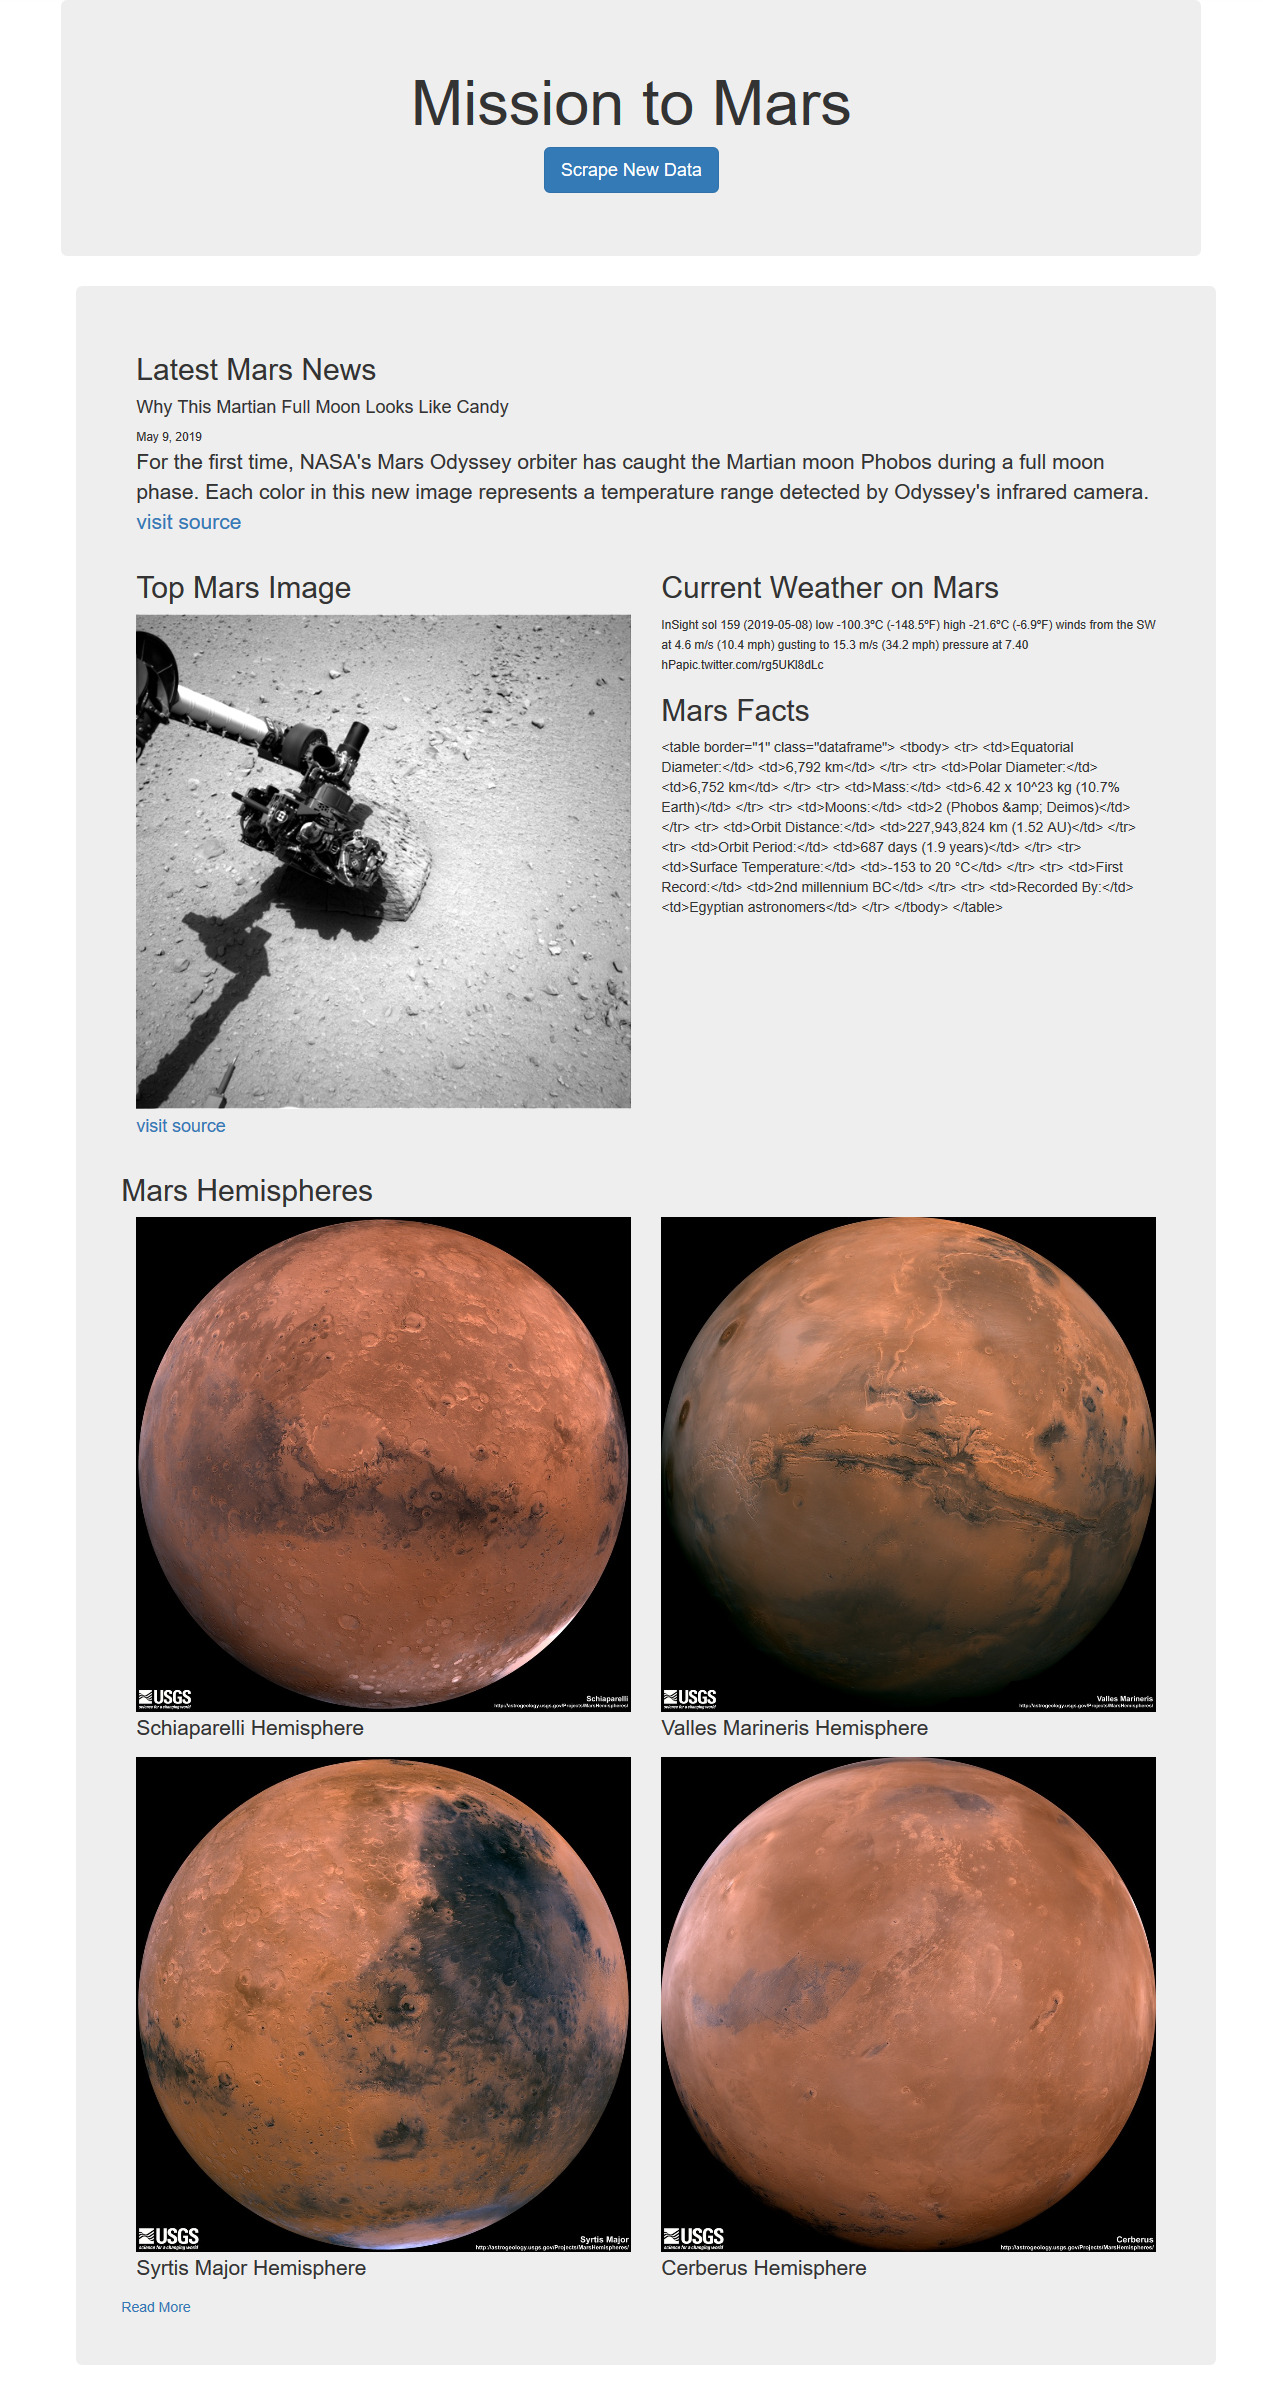
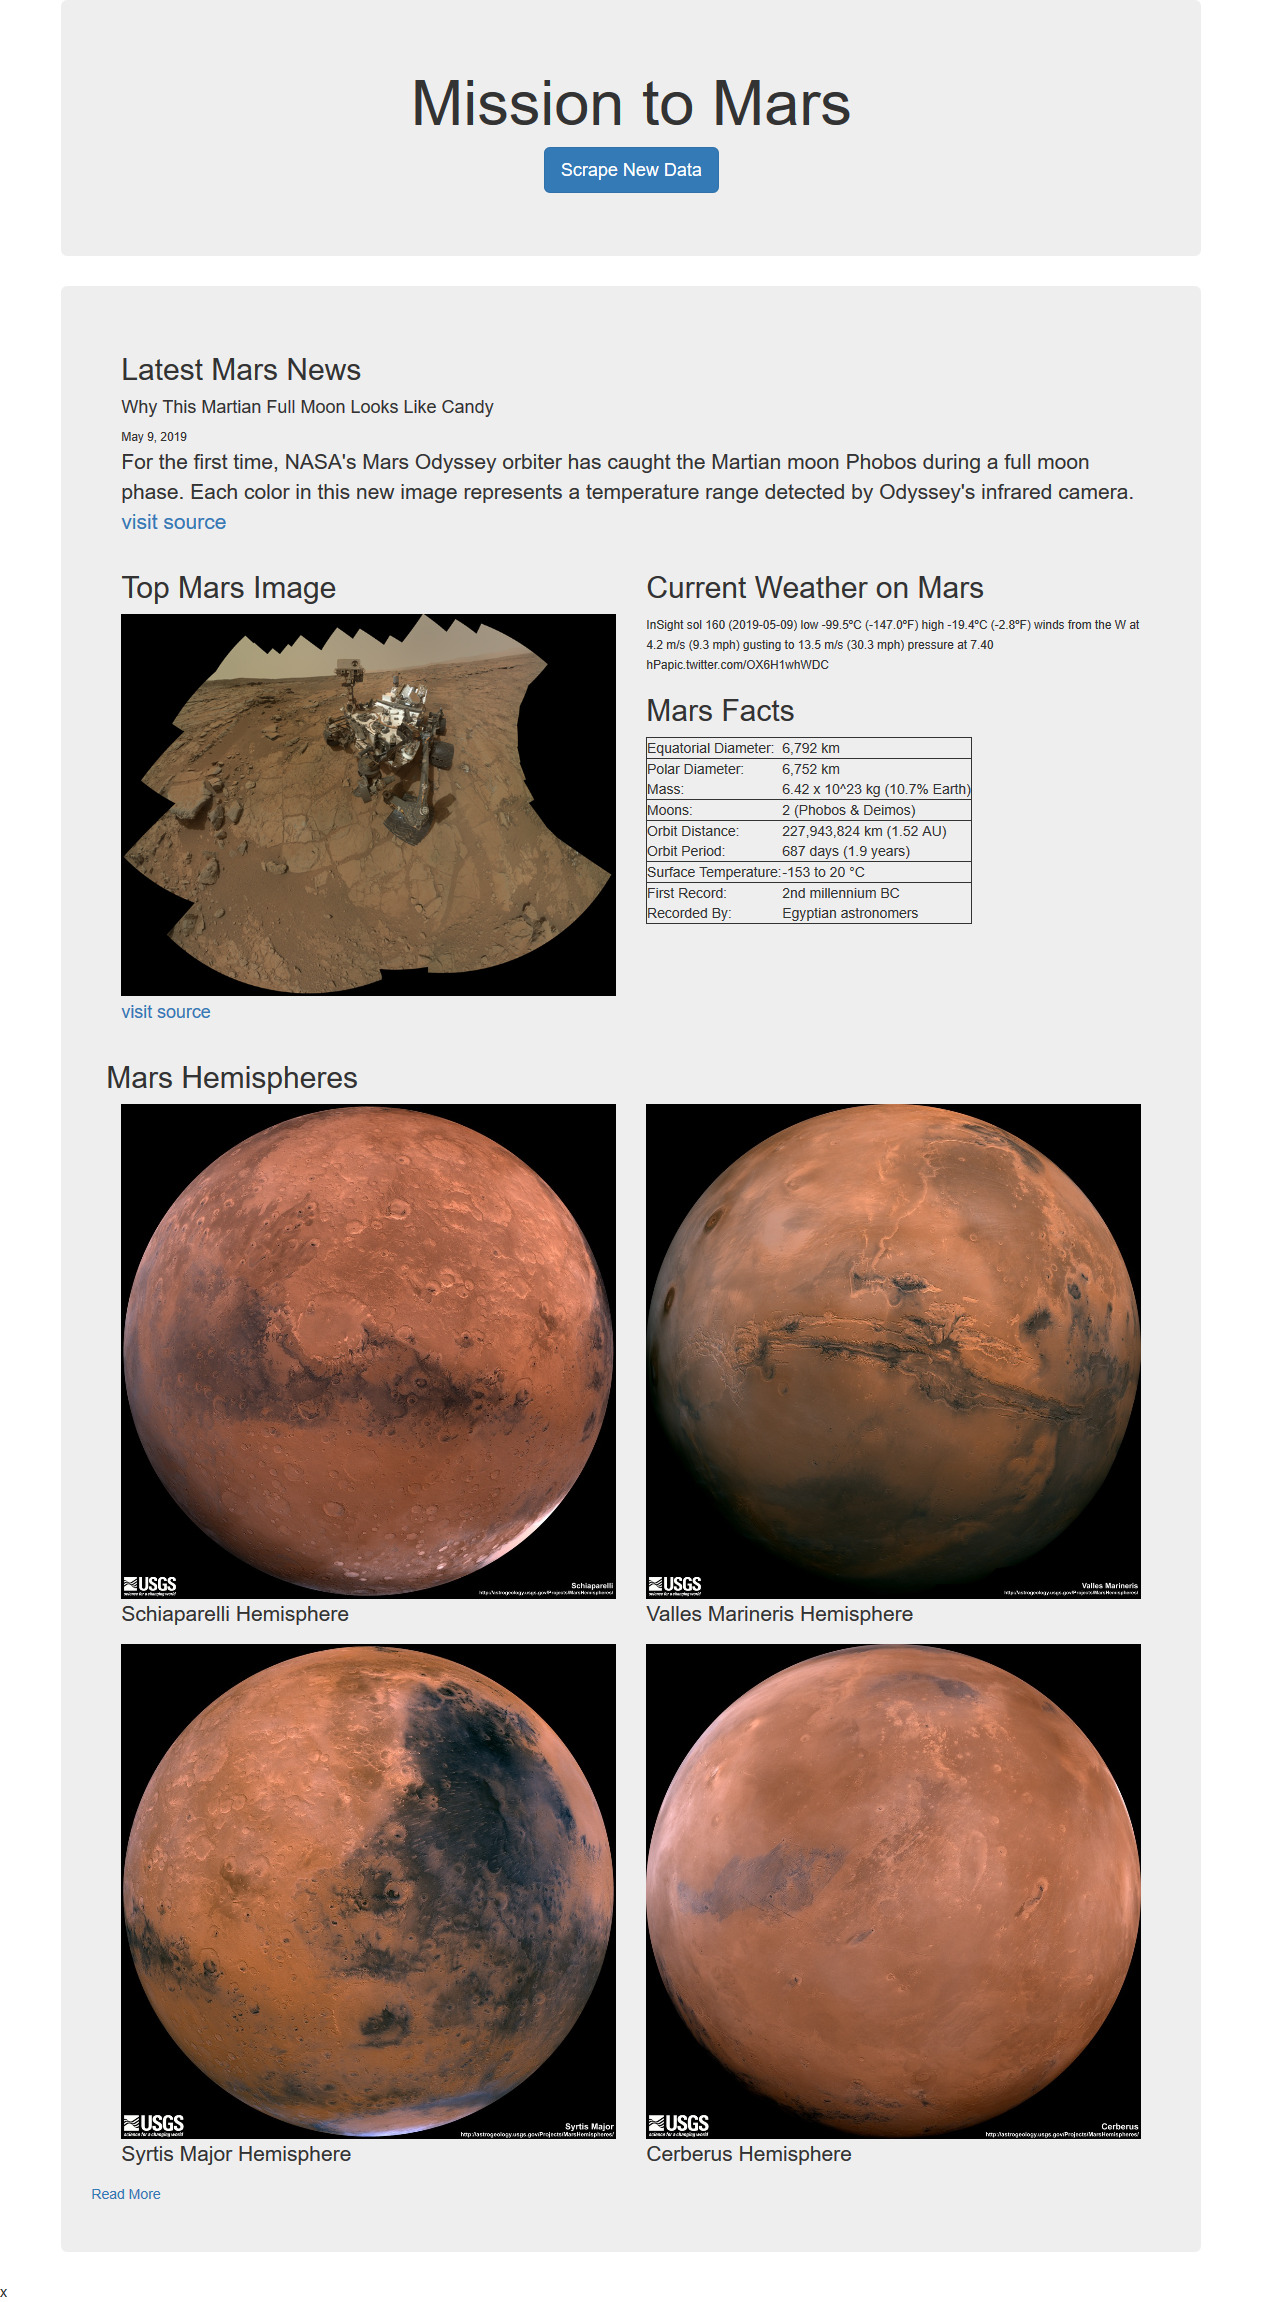
update

diff --git a/templates/index.html b/templates/index.html
@@ -1,13 +1,13 @@
 <!DOCTYPE html>
 <html lang="en">
-
-<head>
-  <meta charset="UTF-8">
-  <meta name="viewport" content="width=device-width, initial-scale=1.0">
-  <meta http-equiv="X-UA-Compatible" content="ie=edge">
-  <title>Mars Scrape</title>
-  <link rel="stylesheet" href="https://maxcdn.bootstrapcdn.com/bootstrap/3.3.7/css/bootstrap.min.css">
-</head>
+    <head>
+        <meta charset="UTF-8">
+        <meta name="viewport" content="width=device-width, initial-scale=1.0">
+        <meta http-equiv="X-UA-Compatible" content="ie=edge">
+        <title>Mars Scrape</title>
+        <link rel="stylesheet" href="https://maxcdn.bootstrapcdn.com/bootstrap/3.3.7/css/bootstrap.min.css" >
+      </head>
+      
 
 <body>
   <div class="container">
@@ -16,70 +16,83 @@
       <h1>Mission to Mars</h1>
       <p><a class="btn btn-primary btn-lg" href="/scrape" role="button">Scrape New Data</a></p>
     </div>
+  </div>
+  <!-- Mars Listings -->
+  <div class="container">
 
-    <!-- Mars Listings -->
-    <div class="container">
-
-      <div class="jumbotron text-left">
-        <div class="row" id="mars_news">
-          <div class="col-md-12">
-            <h2 class="heading">Latest Mars News</h2>
-            <h4>{{scrape_dict.mars_news.news_title}}</h4>
-            <small>{{scrape_dict.mars_news.news_date}}</small>
-            <p>{{scrape_dict.mars_news.news_p}}<a href="https://mars.nasa.gov/news " target="__blank"> visit source</a>
-            </p>
-          </div>
+    <div class="jumbotron text-left">
+      <div class="row" id="mars_news">
+        <div class="col-md-12">
+          {% if scrape_dict is not none %}
+          <h2 class="heading">Latest Mars News</h2>
+          <h4>{{scrape_dict.mars_news.news_title}}</h4>
+          <small>{{scrape_dict.mars_news.news_date}}</small>
+          <p>{{scrape_dict.mars_news.news_p}}<a href="https://mars.nasa.gov/news " target="__blank"> visit source</a>
+            {% endif %}
+          </p>
         </div>
+      </div>
 
-        <div class="row">
-          <div class="col-md-6">
-            <h2>Top Mars Image</h2>
-            <img src="{{scrape_dict.top_img_url}}" alt="top mars image" class="img-responsive">
-            <p>
-              <small>
-                <a href="https://www.jpl.nasa.gov/spaceimages/?search=&category=Mars" target="__blank">visit source</a>
-              </small>
-            </p>
-          </div>
-          <div class="col-md-6">
-            <h2>Current Weather on Mars</h2>
-            <small>{{scrape_dict.mars_weather}}</small>
-            <h2>Mars Facts</h2>
-            {{scrape_dict.html_table}}
-          </div>
+      <div class="row">
+        <div class="col-md-6">
+          <h2>Top Mars Image</h2>
+          <img src="{{scrape_dict.top_img_url}}" alt="top mars image" class="img-responsive">
+          <p>
+            <small>
+              <a href="https://www.jpl.nasa.gov/spaceimages/?search=&category=Mars" target="__blank">visit source</a>
+            </small>
+          </p>
+        </div>
+        <div class="col-md-6">
+          <h2>Current Weather on Mars</h2>
+          <small>{{scrape_dict.mars_weather}}</small>
+          <h2>Mars Facts</h2>
+          {{scrape_dict.html_table | safe}}
+        </div>
+      </div>
+      <div class="row">
+        <div class=col-12 class="text-center">
+          <h2>Mars Hemispheres</h2>
+        </div>
+      </div>
+      <div class="row">
+        <div class="col-md-6">
 
+          <img src="{{scrape_dict.hemisphere_image_urls[1]['img_url']}}" alt="" class="img-responsive">
+          <P>{{scrape_dict.hemisphere_image_urls[1]['title']}}</P>
+
+
+          <img src="{{scrape_dict.hemisphere_image_urls[2]['img_url']}}" alt="" class="img-responsive">
+          <P>{{scrape_dict.hemisphere_image_urls[2]['title']}}</P>
 
         </div>
+        <div class="col-md-6">
+
+          <img src="{{scrape_dict.hemisphere_image_urls[3]['img_url']}}" alt="" class="img-responsive">
+          <P>{{scrape_dict.hemisphere_image_urls[3]['title']}}</P>
+
+
+          <img src="{{scrape_dict.hemisphere_image_urls[0]['img_url']}}" alt="" class="img-responsive">
+          <P>{{scrape_dict.hemisphere_image_urls[0]['title']}}</P>
+        </div>
         <div class="row">
-          <div class=col-12 class="text-center">
-            <h2>Mars Hemispheres</h2>
-          </div>
-          <div class="col-md-5">
-            <div class="card">
-              <img src="{{scrape_dict.hemisphere_image_urls[1]['img_url']}}" alt="" class="img-responsive">
-              <P>{{scrape_dict.hemisphere_image_urls[1]['title']}}</P>
-            </div>
-            <div class="card">
-              <img src="{{scrape_dict.hemisphere_image_urls[2]['img_url']}}" alt="" class="img-responsive">
-              <P>{{scrape_dict.hemisphere_image_urls[2]['title']}}</P>
-            </div>
-          </div>
-          <div class="col-md-5">
-            <div class="card">
-              <img src="{{scrape_dict.hemisphere_image_urls[3]['img_url']}}" alt="" class="img-responsive">
-              <P>{{scrape_dict.hemisphere_image_urls[3]['title']}}</P>
-            </div>
-            <div class="card">
-              <img src="{{scrape_dict.hemisphere_image_urls[0]['img_url']}}" alt="" class="img-responsive">
-              <P>{{scrape_dict.hemisphere_image_urls[0]['title']}}</P>
-            </div>
-          </div>
           <div><a href="https://astrogeology.usgs.gov/search/results?q=hemisphere+enhanced&k1=target&v1=Mars">Read
               More</a></div>
         </div>
       </div>
-
     </div>
+  </div>
+  </div>
+  <!-- Add to bottom of each body -->
+  <script src="https://code.jquery.com/jquery-3.3.1.slim.min.js"
+  integrity="sha384-q8i/X+965DzO0rT7abK41JStQIAqVgRVzpbzo5smXKp4YfRvH+8abtTE1Pi6jizo"
+  crossorigin="anonymous"></script>
+<script src="https://cdnjs.cloudflare.com/ajax/libs/popper.js/1.14.7/umd/popper.min.js"
+  integrity="sha384-UO2eT0CpHqdSJQ6hJty5KVphtPhzWj9WO1clHTMGa3JDZwrnQq4sF86dIHNDz0W1"
+  crossorigin="anonymous"></script>
+<script src="https://stackpath.bootstrapcdn.com/bootstrap/4.3.1/js/bootstrap.min.js"
+  integrity="sha384-JjSmVgyd0p3pXB1rRibZUAYoIIy6OrQ6VrjIEaFf/nJGzIxFDsf4x0xIM+B07jRM"
+  crossorigin="anonymous"></script>
 </body>
 
-</html>
+</html>x

diff --git a/scrape_mars.py b/scrape_mars.py
@@ -7,7 +7,7 @@ import time
 
 
 def init_browser():
-    # @NOTE: Replace the path with your actual path to the chromedriver
+    #Replace the path with your actual path to the chromedriver
     executable_path = {"executable_path": "chromedriver.exe"}
     return Browser("chrome", **executable_path, headless=False)
 
